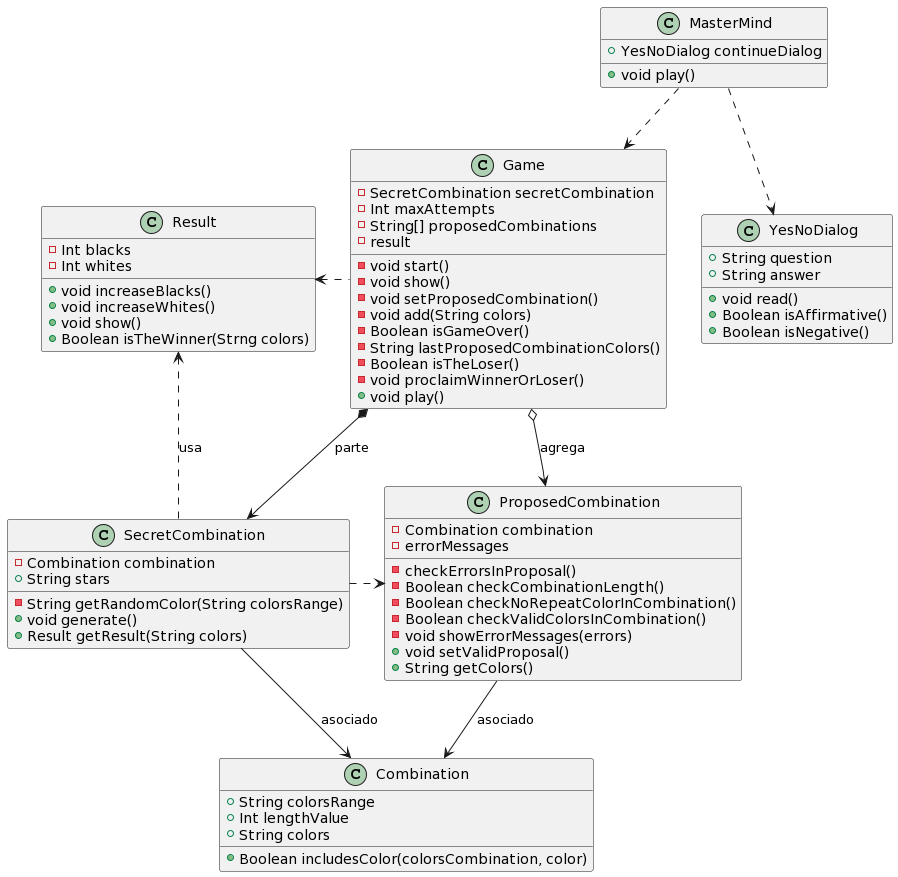
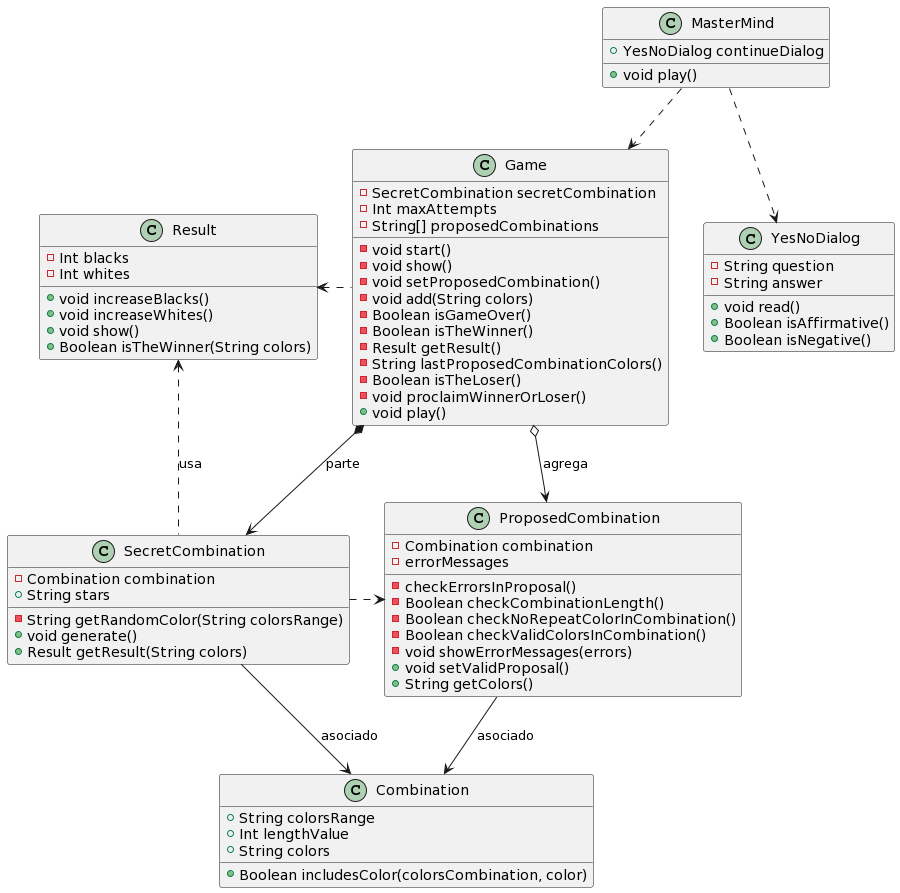
Modificaciones finales

diff --git a/tech-js-basada-objetos/game-mastermind/v0.2/v0.2.1/app.js b/tech-js-basada-objetos/game-mastermind/v0.2/v0.2.1/app.js
@@ -17,12 +17,39 @@ function initMasterMind() {
   };
 }
 
+function initYesNoDialog(question) {
+  let that = {
+    question: question,
+    answer: ``,
+  };
+
+  return {
+    read() {
+      let error = false;
+      do {
+        that.answer = console.readString(that.question);
+        error = !this.isAffirmative() && !this.isNegative();
+        if (error) {
+          console.writeln(`Por favor, responde "s" o "n"`);
+        }
+      } while (error);
+    },
+
+    isAffirmative() {
+      return that.answer === `s`;
+    },
+
+    isNegative() {
+      return that.answer === `n`;
+    },
+  };
+}
+
 function initGame() {
   let that = {
     secretCombination: initSecretCombination(),
     maxAttempts: 10,
     proposedCombinations: [],
-    result: ``,
 
     start() {
       this.secretCombination.generate();
@@ -36,7 +63,6 @@ function initGame() {
       for (let proposalColors of this.proposedCombinations) {
         const result = this.secretCombination.getResult(proposalColors);
         console.writeln(`${proposalColors} --> ${result.show()}`);
-        this.result = result;
       }
     },
     setProposedCombination() {
@@ -48,14 +74,19 @@ function initGame() {
       this.proposedCombinations[this.proposedCombinations.length] = colors;
     },
     isGameOver() {
-      if (
-        this.result.isTheWinner(this.lastProposedCombinationColors()) ||
-        this.isTheLoser()
-      ) {
+      if (this.isTheWinner() || this.isTheLoser()) {
         this.proclaimWinnerOrLoser();
         return true;
       }
       return false;
+    },
+    isTheWinner() {
+      return this.getResult().isTheWinner(this.lastProposedCombinationColors());
+    },
+    getResult() {
+      return this.secretCombination.getResult(
+        this.lastProposedCombinationColors()
+      );
     },
     lastProposedCombinationColors() {
       return this.proposedCombinations[this.proposedCombinations.length - 1];
@@ -64,7 +95,7 @@ function initGame() {
       return this.proposedCombinations.length === this.maxAttempts;
     },
     proclaimWinnerOrLoser() {
-      if (this.result.isTheWinner(this.lastProposedCombinationColors())) {
+      if (this.isTheWinner()) {
         console.writeln(`\n¡¡Has ganado!! ¡Enhorabuena!`);
       } else {
         console.writeln(
@@ -81,22 +112,6 @@ function initGame() {
         that.setProposedCombination();
         that.show();
       } while (!that.isGameOver());
-    },
-  };
-}
-
-function initCombination() {
-  return {
-    colorsRange: `rgbcmy`,
-    lengthValue: 4,
-    colors: ``,
-    includesColor(colorsCombination, color) {
-      for (let i = 0; i < colorsCombination.length; i++) {
-        if (colorsCombination[i] === color) {
-          return true;
-        }
-      }
-      return false;
     },
   };
 }
@@ -212,6 +227,22 @@ function initProposedCombination() {
   };
 }
 
+function initCombination() {
+  return {
+    colorsRange: `rgbcmy`,
+    lengthValue: 4,
+    colors: ``,
+    includesColor(colorsCombination, color) {
+      for (let i = 0; i < colorsCombination.length; i++) {
+        if (colorsCombination[i] === color) {
+          return true;
+        }
+      }
+      return false;
+    },
+  };
+}
+
 function initResult() {
   let that = {
     blacks: 0,
@@ -230,32 +261,6 @@ function initResult() {
     },
     isTheWinner(colors) {
       return that.blacks === colors.length;
-    },
-  };
-}
-
-function initYesNoDialog(question) {
-  return {
-    question: question,
-    answer: ``,
-
-    read() {
-      let error = false;
-      do {
-        answer = console.readString(this.question);
-        error = !this.isAffirmative() && !this.isNegative();
-        if (error) {
-          console.writeln(`Por favor, responde "s" o "n"`);
-        }
-      } while (error);
-    },
-
-    isAffirmative() {
-      return answer === `s`;
-    },
-
-    isNegative() {
-      return answer === `n`;
     },
   };
 }
